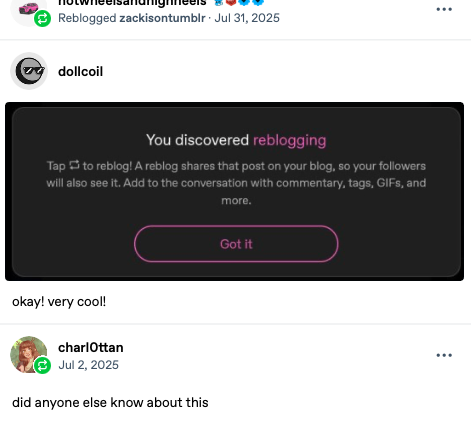
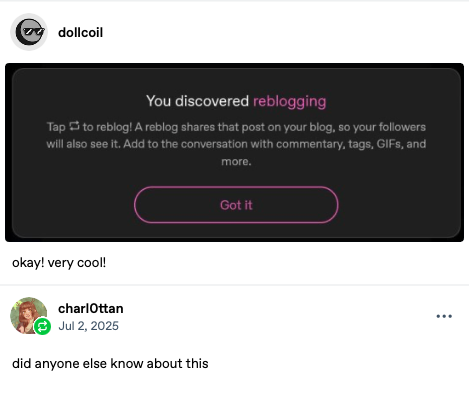
ok

diff --git a/_site/Trunk/archive/index.html b/_site/Trunk/archive/index.html
@@ -105,7 +105,7 @@ function toggleMenu() {
 
 <div class="artifact">
   <div class="artifact-media">
-    <div class="artifact-slideshow" id="archive-slideshow" data-current="1" data-total="29">
+    <div class="artifact-slideshow" id="archive-slideshow" data-current="1" data-total="46">
 
       <!-- 1. No one summonded you, Siri -->
       <div class="artifact-slide active" data-title="No one summonded you, Siri" data-origin="hw-screenshot" data-date="07-07-2014" data-context="I think I had my phone in my hand or pocket, not looking at it or talking to Siri at all, but Siri responded. The text reads: &quot;Cannot find my I cannot find my dog and my friend my help I'll Malmac mag mag all my on my mind all morning wall wall wall wall wall wall memorial boreal&quot; tap to edit — Sorry, Alejandra… can you try that again in fewer words?" data-significance="I screenshot this because I thought it was funny that Siri was summoned and even funnier that that's what it thought I had said." data-tags-driver="Online,Ghosts" data-tags-timeline="Infrastructure">
@@ -238,7 +238,7 @@ function toggleMenu() {
 
       <!-- 27. Santa Visits Sandy Hook Victims-->
       <div class="artifact-slide" data-title="Santa Visits Sandy Hook Victims" data-origin="web-tumblr" data-date="12-21-2012" data-context="This is a political cartoon in which Santa is picking up a little girl from the clouds, presumably &quot;heaven.&quot; There is a book bag labeled Sandy Hook Elementary. The text reads, &quot;Of course I deliver here.&quot;" data-significance="Sandy Hook is the 2nd deadliest school shooting in the U.S. The shock was greater than other school shootings because these were mainly elementary school kids who died. If you look into the history of school shootings in America, Sandy Hook is right up there next to Columbine, Virginia Tech, and Parkland as most notable." data-tags-driver="Ghosts,Hope" data-tags-timeline="Injustice,Society,Community">
-        <img src="/assets/archive/web-tumblr-santa-sandy-hook.PNG" alt="A political cartoon of Santa delivering gifts to a Sandy Hook victim in heaven." loading="lazy" />
+        <img src="/assets/archive/web-tumblr-santa-sandy-hook.png" alt="A political cartoon of Santa delivering gifts to a Sandy Hook victim in heaven." loading="lazy" />
       </div>
 
       <!-- 28. I can excuse... but I draw the line at...-->
@@ -251,6 +251,90 @@ function toggleMenu() {
         <img src="/assets/archive/web-tumblr-tank-top.PNG" alt=" " loading="lazy" />
       </div>
 
+      <!-- 30. Apple Computer Joke-->
+      <div class="artifact-slide" data-title="Apple Computer Joke" data-origin="web-tumblr" data-date="12-4-2012" data-context="A humorous post from tumblr where OP said they asked their parents for an apple and got a computer instead." data-significance="This is fkn hilarious, and I am including it as an example of millennial humor." data-tags-driver="Expression,Identity" data-tags-timeline="Infrastructure">
+        <img src="/assets/archive/web-tumblr-apple-joke.PNG" alt=" " loading="lazy" />
+      </div>
+
+      <!-- 31. iTunes Gift Card Conundrum  -->
+      <div class="artifact-slide" data-title="iTunes Gift Card Conundrum" data-origin="web-tumblr" data-date="12-25-2012" data-context="A tumblr post where OP says they get overwhelmed whenever they get an iTunes gift card. Exclaiming, &quot;Like what music do I deem worthy enough to legally purchase?&quot;" data-significance="iTunes used to be huge when iPods first came out. However, it wasn't always easy to control access to digital files because of file sharing platforms that let users get media without purchasing it. Not knowing what to purchase with an iTunes gift card was very much a common sentiment. " data-tags-driver="Expression,Online" data-tags-timeline="Society">
+        <img src="/assets/archive/web-tumblr-itunes-gift-card.PNG" alt=" " loading="lazy" />
+      </div>
+
+      <!-- 32. You Discovered Reblogging -->
+      <div class="artifact-slide" data-title="You Discovered Reblogging" data-origin="web-tumblr" data-date="7-31-2025" data-context="A tumblr image post shows a screenshot of a tutorial notification for the reblog feature. Op says, &quot;okay! very cool!&quot; and an added comment says &quot;did anyone else know about this&quot;" data-significance="This post is from 2025, tumblr has been around since 2007 and reblogging has always been a feature. Reblogging is encouraged and valued on tumblr. It was often the case that users would beg for reblogs instead of likes. It was a different economy than other platforms, including Twitter, where a retweet has a different nuance than a reblog. Today, we reblog retweet repost remix etc." data-tags-driver="Online,Expression,Hope" data-tags-timeline="Society,Internet &amp; Web,Community">
+        <img src="/assets/archive/web-tumblr-discovered-reblogging.png" alt=" " loading="lazy" />
+      </div>
+
+      <!-- 33. A Meaningless Empty Capitalist System -->
+      <div class="artifact-slide" data-title="A Meaningless Empty Capitalist System" data-origin="web-tumblr" data-date="12-10-2018" data-context="An image of two dolphins floating on a blank background above a statue of an angel. The text reads, &quot;I resent having to earn money to justify my existence in a meaninless empty capitalist system.&quot;" data-significance="Economy,Injustice,Society" data-tags-driver="Expression,Consummerism" data-tags-timeline="Economy,Injustice,Society">
+        <img src="/assets/archive/web-tumblr-meaningless.png" alt=" " loading="lazy" />
+      </div>
+
+      <!-- 34. December 17th on Tumblr  -->
+      <div class="artifact-slide" data-title="December 17th on Tumblr" data-origin="web-tumblr" data-date="12-17-2018" data-context="A tumblr post that reads &quot;Me still seeing porn on my dash on December 17th&quot; accompanied by a popular reaction meme from iCarly where Miranda Cosgrove is unimpressed at a computer screen." data-significance="The tumblr adult content ban was a pretty significant move for the platform. Users weren't excited about it. This is an example of tumblr humor. " data-tags-driver="Online,Body,Spaces" data-tags-timeline="Community,Infrastructure,Injustice">
+        <img src="/assets/archive/web-tumblr-december-17.png" alt=" " loading="lazy" />
+      </div>
+
+      <!-- 35. This man so annoying-->
+      <div class="artifact-slide" data-title="This man so annoying" data-origin="web-tumblr" data-date="12-8-2018" data-context="This is a friend request from Facebook, that was screenshot and tweeted with the caption &quot;this man so annoying 🤦♀&quot; and then screenshot again and posted to tumblr with the added comment &quot;this offset&quot;" data-significance="I'm including this as an example of how content traveled through platforms. " data-tags-driver="Parasocialism" data-tags-timeline="Pop Culture">
+        <img src="assets/archive/web-tumblr-so-annoying.png" alt=" " loading="lazy" />
+      </div>
+
+      <!-- 36. 2009 again -->
+      <div class="artifact-slide" data-title="2009 again" data-origin="web-tumblr" data-date="12-19-2018" data-context="This post begins with &quot;in 2019 we're bringing back 2009 scene culture&quot; with example." data-significance="I'm including this because 2009 fashion actually did come back in style... millennial cringe flipped to millennial optimism, and millennial aesthetics are being resurrected by our children. " data-tags-driver="Expression,Nostalgia Economy" data-tags-timeline="Society,Pop Culture,Economy">
+        <img src="/assets/archive/web-tumblr-2009-again.png" alt=" " loading="lazy" />
+      </div>
+
+      <!-- 37. Monetary Cost for Rape Victims in U.S. -->
+      <div class="artifact-slide" data-title="Monetary Cost for Rape Victims in U.S." data-origin="web-tumblr" data-date="7-20-2012" data-context="This is an invoice from a hospital that lists costs for procedures and medications totaling $4570. The caption reads &quot;The monetary cost for a rape victim to receive treatment at a hospital in the United States.&quot;" data-significance=" " data-tags-driver="Body" data-tags-timeline="Documentation,Injustice,Society">
+        <img src="/assets/archive/web-tumblr-monetary-cost.png" alt=" " loading="lazy" />
+      </div>
+
+      <!-- 38. Women protesting Delhi's epidemic of rapes -->
+      <div class="artifact-slide" data-title="Women protesting Delhi's epidemic of rapes" data-origin="web-tumblr" data-date="12-22-2012" data-context="This is a photograph from a protest against Rape Culture. This specific photograph is from the protests in Dehli. The crowd of young Indian women are holding a sign that reads, &quot;Don't tell ur daughter not to go out Tell your son to behave properly.&quot; They carry lit candles as well. " data-significance="This is one example of how the fight against rape culture and the fight against the violence of the patriarchy were a global activism. " data-tags-driver="Witness,Body,Activism" data-tags-timeline="Society,Injustice,Community">
+        <img src="/assets/archive/web-tumblr-delhi-protest.png" alt=" " loading="lazy" />
+      </div>
+
+      <!-- 39. Bye NRA  -->
+      <div class="artifact-slide" data-title="Bye NRA" data-origin="web-tumblr" data-date="12-24-2012" data-context="This tumblr post reads &quot;For Christmas I would like the NRA to go away.&quot;" data-significance="Every time there's a school shooting, the issue of gun control comes up, and the NRA shuts it down. This was posted 10 days after the shooting at Sandy Hook Elementary." data-tags-driver="Online,Expression" data-tags-timeline="Injustice,Community">
+        <img src="/assets/archive/web-tumblr-bye-nra.png" alt=" " loading="lazy" />
+      </div>
+
+      <!-- 40. AI is coming for your job -->
+      <div class="artifact-slide" data-title="AI is coming for your job" data-origin="web-tumblr" data-date="11-11-2024" data-context="This is a screenshot of a tiktok posted to tumblr. In the image, a hand is mixing a thick, peach-colored substance. The caption reads: &quot;AI is coming for your job&quot; Yeah right I'd like to see AI wax a coochie. " data-significance=" " data-tags-driver="Expression" data-tags-timeline="Economy,Infrastructure">
+        <img src="/assets/archive/web-tumblr-wax-coochie.png" alt=" " loading="lazy" />
+      </div>
+
+      <!-- 41. Are ya winning son?-->
+      <div class="artifact-slide" data-title="Are ya winning son?" data-origin="web-tumblr" data-date="8-24-2025" data-context="This is a version of the &quot;Are you winning son?&quot; meme where the son is crying, on social media sites, piles of unwashed clothes, and amazon boxes, and the text reads, &quot;Yes, yes! I am winning! I have everything at my fingertips...&quot;" data-significance=" " data-tags-driver="Expression,Online" data-tags-timeline="Society">
+        <img src="/assets/archive/web-tumblr-are-ya-winning.png" alt=" " loading="lazy" />
+      </div>
+
+      <!-- 42. But her emails  -->
+      <div class="artifact-slide" data-title="But her emails" data-origin="web-tumblr" data-date="11-2-2018" data-context="In this image, a road sign is bobbing in a flood of water, the visible text reads, &quot;but her emails.&quot;" data-significance=" " data-tags-driver="Expression,Online" data-tags-timeline="Government">
+        <img src="/assets/archive/web-tumblr-but-her-emails.png" alt=" " loading="lazy" />
+      </div>
+
+      <!-- 43. Tumblr Adult Content Ban -->
+      <div class="artifact-slide" data-title="Tumblr Adult Content Ban" data-origin="web-tumblr" data-date="12-19-2018" data-context="This is a remix of the tumblr notification users recieved about the upcoming adult content ban. This version includes, &quot;and Seth Everman will be publically executed in our reception area after a prompt trial by the blogging bribunal.&quot;" data-significance=" " data-tags-driver="Expression,Online" data-tags-timeline="Infrastructure,Injustice,Community,Society,Economy">
+        <img src="/assets/archive/web-tumblr-seth-everman.png" alt=" " loading="lazy" />
+      </div>
+
+      <!-- 44. Illegal to be horny  -->
+      <div class="artifact-slide" data-title="Illegal to be horny" data-origin="web-tumblr" data-date="12-3-2018" data-context="This is a tumblr post that reads &quot;I have been on tumblr for 9 years and NOW they're telling me it's illegal to be horny???&quot;" data-significance=" " data-tags-driver="Expression,Online" data-tags-timeline="Infrastructure,Injustice,Community,Society,Economy">
+        <img src="/assets/archive/web-tumblr-illegal-horny.png" alt=" " loading="lazy" />
+      </div>
+
+      <!-- 45. Pathetic America  -->
+      <div class="artifact-slide" data-title="Pathetic America" data-origin="web-tumblr" data-date="12-27-2012" data-context="This is a screenshot of a Tumblr ask that was screenshot and posted to be rebloggable. The ask says, &quot;I considered selling sex so I can feed my kids and keep my heat on. This is a pathetic way to be in America.&quot;" data-significance=" " data-tags-driver="Expression,Online" data-tags-timeline=" ">
+        <img src="/assets/archive/web-tumblr-pathetic-america.png" alt=" " loading="lazy" />
+      </div>
+
+      <!-- 46. Ba harmy putar? GLARCH!  -->
+      <div class="artifact-slide" data-title="Ba harmy putar? GLARCH!" data-origin="web-tumblr" data-date="11-5-2012" data-context="An example of millennial humor. The text reads, &quot;I heard this great joke on Sims once...&quot; followed by the joke &quot;Be harmy putar? GLARCH!&quot; And a reaction meme of a woman grinning. At the bottom, an addition reads, &quot;I've seen this post three times now and I still lose my shit.&quot;" data-significance=" " data-tags-driver="Expression,Online" data-tags-timeline=" ">
+        <img src="/assets/archive/web-tumblr-sims-joke.png" alt=" " loading="lazy" />
+      </div>
 
     </div>
     <div class="artifact-slideshow-controls" id="archive-controls">

diff --git a/Trunk/archive.md b/Trunk/archive.md
@@ -15,7 +15,7 @@ On this page, I am collecting born-digital content. Each artifact includes where
 
 <div class="artifact">
   <div class="artifact-media">
-    <div class="artifact-slideshow" id="archive-slideshow" data-current="1" data-total="29">
+    <div class="artifact-slideshow" id="archive-slideshow" data-current="1" data-total="46">
 
       <!-- 1. No one summonded you, Siri -->
       <div class="artifact-slide active"
@@ -330,7 +330,7 @@ On this page, I am collecting born-digital content. Each artifact includes where
         data-significance="Sandy Hook is the 2nd deadliest school shooting in the U.S. The shock was greater than other school shootings because these were mainly elementary school kids who died. If you look into the history of school shootings in America, Sandy Hook is right up there next to Columbine, Virginia Tech, and Parkland as most notable."
         data-tags-driver="Ghosts,Hope"
         data-tags-timeline="Injustice,Society,Community">
-        <img src="/assets/archive/web-tumblr-santa-sandy-hook.PNG" alt="A political cartoon of Santa delivering gifts to a Sandy Hook victim in heaven." loading="lazy">
+        <img src="/assets/archive/web-tumblr-santa-sandy-hook.png" alt="A political cartoon of Santa delivering gifts to a Sandy Hook victim in heaven." loading="lazy">
       </div>
 
       <!-- 28. I can excuse... but I draw the line at...-->
@@ -357,6 +357,209 @@ On this page, I am collecting born-digital content. Each artifact includes where
         <img src="/assets/archive/web-tumblr-tank-top.PNG" alt=" " loading="lazy">
       </div>
 
+      <!-- 30. Apple Computer Joke-->
+      <div class="artifact-slide"
+        data-title="Apple Computer Joke"
+        data-origin="web-tumblr"
+        data-date="12-4-2012"
+        data-context="A humorous post from tumblr where OP said they asked their parents for an apple and got a computer instead."
+        data-significance="This is fkn hilarious, and I am including it as an example of millennial humor."
+        data-tags-driver="Expression,Identity"
+        data-tags-timeline="Infrastructure">
+        <img src="/assets/archive/web-tumblr-apple-joke.PNG" alt=" " loading="lazy">
+      </div>
+
+      <!-- 31. iTunes Gift Card Conundrum  -->
+      <div class="artifact-slide"
+        data-title="iTunes Gift Card Conundrum"
+        data-origin="web-tumblr"
+        data-date="12-25-2012"
+        data-context="A tumblr post where OP says they get overwhelmed whenever they get an iTunes gift card. Exclaiming, &quot;Like what music do I deem worthy enough to legally purchase?&quot;"
+        data-significance="iTunes used to be huge when iPods first came out. However, it wasn't always easy to control access to digital files because of file sharing platforms that let users get media without purchasing it. Not knowing what to purchase with an iTunes gift card was very much a common sentiment. "
+        data-tags-driver="Expression,Online"
+        data-tags-timeline="Society">
+        <img src="/assets/archive/web-tumblr-itunes-gift-card.PNG" alt=" " loading="lazy">
+      </div>
+
+      <!-- 32. You Discovered Reblogging -->
+      <div class="artifact-slide"
+        data-title="You Discovered Reblogging"
+        data-origin="web-tumblr"
+        data-date="7-31-2025"
+        data-context="A tumblr image post shows a screenshot of a tutorial notification for the reblog feature. Op says, &quot;okay! very cool!&quot; and an added comment says &quot;did anyone else know about this&quot;"
+        data-significance="This post is from 2025, tumblr has been around since 2007 and reblogging has always been a feature. Reblogging is encouraged and valued on tumblr. It was often the case that users would beg for reblogs instead of likes. It was a different economy than other platforms, including Twitter, where a retweet has a different nuance than a reblog. Today, we reblog retweet repost remix etc."
+        data-tags-driver="Online,Expression,Hope"
+        data-tags-timeline="Society,Internet & Web,Community">
+        <img src="/assets/archive/web-tumblr-discovered-reblogging.png" alt=" " loading="lazy">
+      </div>
+
+      <!-- 33. A Meaningless Empty Capitalist System -->
+      <div class="artifact-slide"
+        data-title="A Meaningless Empty Capitalist System"
+        data-origin="web-tumblr"
+        data-date="12-10-2018"
+        data-context="An image of two dolphins floating on a blank background above a statue of an angel. The text reads, &quot;I resent having to earn money to justify my existence in a meaninless empty capitalist system.&quot;"
+        data-significance="Economy,Injustice,Society"
+        data-tags-driver="Expression,Consummerism"
+        data-tags-timeline="Economy,Injustice,Society">
+        <img src="/assets/archive/web-tumblr-meaningless.png" alt=" " loading="lazy">
+      </div>
+
+      <!-- 34. December 17th on Tumblr  -->
+      <div class="artifact-slide"
+        data-title="December 17th on Tumblr"
+        data-origin="web-tumblr"
+        data-date="12-17-2018"
+        data-context="A tumblr post that reads &quot;Me still seeing porn on my dash on December 17th&quot; accompanied by a popular reaction meme from iCarly where Miranda Cosgrove is unimpressed at a computer screen."
+        data-significance="The tumblr adult content ban was a pretty significant move for the platform. Users weren't excited about it. This is an example of tumblr humor. "
+        data-tags-driver="Online,Body,Spaces"
+        data-tags-timeline="Community,Infrastructure,Injustice">
+        <img src="/assets/archive/web-tumblr-december-17.png" alt=" " loading="lazy">
+      </div>
+
+      <!-- 35. This man so annoying-->
+      <div class="artifact-slide"
+        data-title="This man so annoying"
+        data-origin="web-tumblr"
+        data-date="12-8-2018"
+        data-context="This is a friend request from Facebook, that was screenshot and tweeted with the caption &quot;this man so annoying 🤦♀&quot; and then screenshot again and posted to tumblr with the added comment &quot;this offset&quot;"
+        data-significance="I'm including this as an example of how content traveled through platforms. "
+        data-tags-driver="Parasocialism"
+        data-tags-timeline="Pop Culture">
+        <img src="assets/archive/web-tumblr-so-annoying.png" alt=" " loading="lazy">
+      </div>
+
+      <!-- 36. 2009 again -->
+      <div class="artifact-slide"
+        data-title="2009 again"
+        data-origin="web-tumblr"
+        data-date="12-19-2018"
+        data-context="This post begins with &quot;in 2019 we're bringing back 2009 scene culture&quot; with example."
+        data-significance="I'm including this because 2009 fashion actually did come back in style... millennial cringe flipped to millennial optimism, and millennial aesthetics are being resurrected by our children. "
+        data-tags-driver="Expression,Nostalgia Economy"
+        data-tags-timeline="Society,Pop Culture,Economy">
+        <img src="/assets/archive/web-tumblr-2009-again.png" alt=" " loading="lazy">
+      </div>
+
+      <!-- 37. Monetary Cost for Rape Victims in U.S. -->
+      <div class="artifact-slide"
+        data-title="Monetary Cost for Rape Victims in U.S."
+        data-origin="web-tumblr"
+        data-date="7-20-2012"
+        data-context="This is an invoice from a hospital that lists costs for procedures and medications totaling $4570. The caption reads &quot;The monetary cost for a rape victim to receive treatment at a hospital in the United States.&quot;"
+        data-significance=" "
+        data-tags-driver="Body"
+        data-tags-timeline="Documentation,Injustice,Society">
+        <img src="/assets/archive/web-tumblr-monetary-cost.png" alt=" " loading="lazy">
+      </div>
+
+      <!-- 38. Women protesting Delhi's epidemic of rapes -->
+      <div class="artifact-slide"
+        data-title="Women protesting Delhi's epidemic of rapes"
+        data-origin="web-tumblr"
+        data-date="12-22-2012"
+        data-context="This is a photograph from a protest against Rape Culture. This specific photograph is from the protests in Dehli. The crowd of young Indian women are holding a sign that reads, &quot;Don't tell ur daughter not to go out Tell your son to behave properly.&quot; They carry lit candles as well. "
+        data-significance="This is one example of how the fight against rape culture and the fight against the violence of the patriarchy were a global activism. "
+        data-tags-driver="Witness,Body,Activism"
+        data-tags-timeline="Society,Injustice,Community">
+        <img src="/assets/archive/web-tumblr-delhi-protest.png" alt=" " loading="lazy">
+      </div>
+
+      <!-- 39. Bye NRA  -->
+      <div class="artifact-slide"
+        data-title="Bye NRA"
+        data-origin="web-tumblr"
+        data-date="12-24-2012"
+        data-context="This tumblr post reads &quot;For Christmas I would like the NRA to go away.&quot;"
+        data-significance="Every time there's a school shooting, the issue of gun control comes up, and the NRA shuts it down. This was posted 10 days after the shooting at Sandy Hook Elementary."
+        data-tags-driver="Online,Expression"
+        data-tags-timeline="Injustice,Community">
+        <img src="/assets/archive/web-tumblr-bye-nra.png" alt=" " loading="lazy">
+      </div>
+
+      <!-- 40. AI is coming for your job -->
+      <div class="artifact-slide"
+        data-title="AI is coming for your job"
+        data-origin="web-tumblr"
+        data-date="11-11-2024"
+        data-context="This is a screenshot of a tiktok posted to tumblr. In the image, a hand is mixing a thick, peach-colored substance. The caption reads: &quot;AI is coming for your job&quot; Yeah right I'd like to see AI wax a coochie. "
+        data-significance=" "
+        data-tags-driver="Expression"
+        data-tags-timeline="Economy,Infrastructure">
+        <img src="/assets/archive/web-tumblr-wax-coochie.png" alt=" " loading="lazy">
+      </div>
+
+      <!-- 41. Are ya winning son?-->
+      <div class="artifact-slide"
+        data-title="Are ya winning son?"
+        data-origin="web-tumblr"
+        data-date="8-24-2025"
+        data-context="This is a version of the &quot;Are you winning son?&quot; meme where the son is crying, on social media sites, piles of unwashed clothes, and amazon boxes, and the text reads, &quot;Yes, yes! I am winning! I have everything at my fingertips...&quot;"
+        data-significance=" "
+        data-tags-driver="Expression,Online"
+        data-tags-timeline="Society">
+        <img src="/assets/archive/web-tumblr-are-ya-winning.png" alt=" " loading="lazy">
+      </div>
+
+      <!-- 42. But her emails  -->
+      <div class="artifact-slide"
+        data-title="But her emails"
+        data-origin="web-tumblr"
+        data-date="11-2-2018"
+        data-context="In this image, a road sign is bobbing in a flood of water, the visible text reads, &quot;but her emails.&quot;"
+        data-significance=" "
+        data-tags-driver="Expression,Online"
+        data-tags-timeline="Government">
+        <img src="/assets/archive/web-tumblr-but-her-emails.png" alt=" " loading="lazy">
+      </div>
+
+      <!-- 43. Tumblr Adult Content Ban -->
+      <div class="artifact-slide"
+        data-title="Tumblr Adult Content Ban"
+        data-origin="web-tumblr"
+        data-date="12-19-2018"
+        data-context="This is a remix of the tumblr notification users recieved about the upcoming adult content ban. This version includes, &quot;and Seth Everman will be publically executed in our reception area after a prompt trial by the blogging bribunal.&quot;"
+        data-significance=" "
+        data-tags-driver="Expression,Online"
+        data-tags-timeline="Infrastructure,Injustice,Community,Society,Economy">
+        <img src="/assets/archive/web-tumblr-seth-everman.png" alt=" " loading="lazy">
+      </div>
+
+      <!-- 44. Illegal to be horny  -->
+      <div class="artifact-slide"
+        data-title="Illegal to be horny"
+        data-origin="web-tumblr"
+        data-date="12-3-2018"
+        data-context="This is a tumblr post that reads &quot;I have been on tumblr for 9 years and NOW they're telling me it's illegal to be horny???&quot;"
+        data-significance=" "
+        data-tags-driver="Expression,Online"
+        data-tags-timeline="Infrastructure,Injustice,Community,Society,Economy">
+        <img src="/assets/archive/web-tumblr-illegal-horny.png" alt=" " loading="lazy">
+      </div>
+
+      <!-- 45. Pathetic America  -->
+      <div class="artifact-slide"
+        data-title="Pathetic America"
+        data-origin="web-tumblr"
+        data-date="12-27-2012"
+        data-context="This is a screenshot of a Tumblr ask that was screenshot and posted to be rebloggable. The ask says, &quot;I considered selling sex so I can feed my kids and keep my heat on. This is a pathetic way to be in America.&quot;"
+        data-significance=" "
+        data-tags-driver="Expression,Online"
+        data-tags-timeline=" ">
+        <img src="/assets/archive/web-tumblr-pathetic-america.png" alt=" " loading="lazy">
+      </div>
+
+      <!-- 46. Ba harmy putar? GLARCH!  -->
+      <div class="artifact-slide"
+        data-title="Ba harmy putar? GLARCH!"
+        data-origin="web-tumblr"
+        data-date="11-5-2012"
+        data-context="An example of millennial humor. The text reads, &quot;I heard this great joke on Sims once...&quot; followed by the joke &quot;Be harmy putar? GLARCH!&quot; And a reaction meme of a woman grinning. At the bottom, an addition reads, &quot;I've seen this post three times now and I still lose my shit.&quot;"
+        data-significance=" "
+        data-tags-driver="Expression,Online"
+        data-tags-timeline=" ">
+        <img src="/assets/archive/web-tumblr-sims-joke.png" alt=" " loading="lazy">
+      </div>
 
     </div>
     <div class="artifact-slideshow-controls" id="archive-controls">
